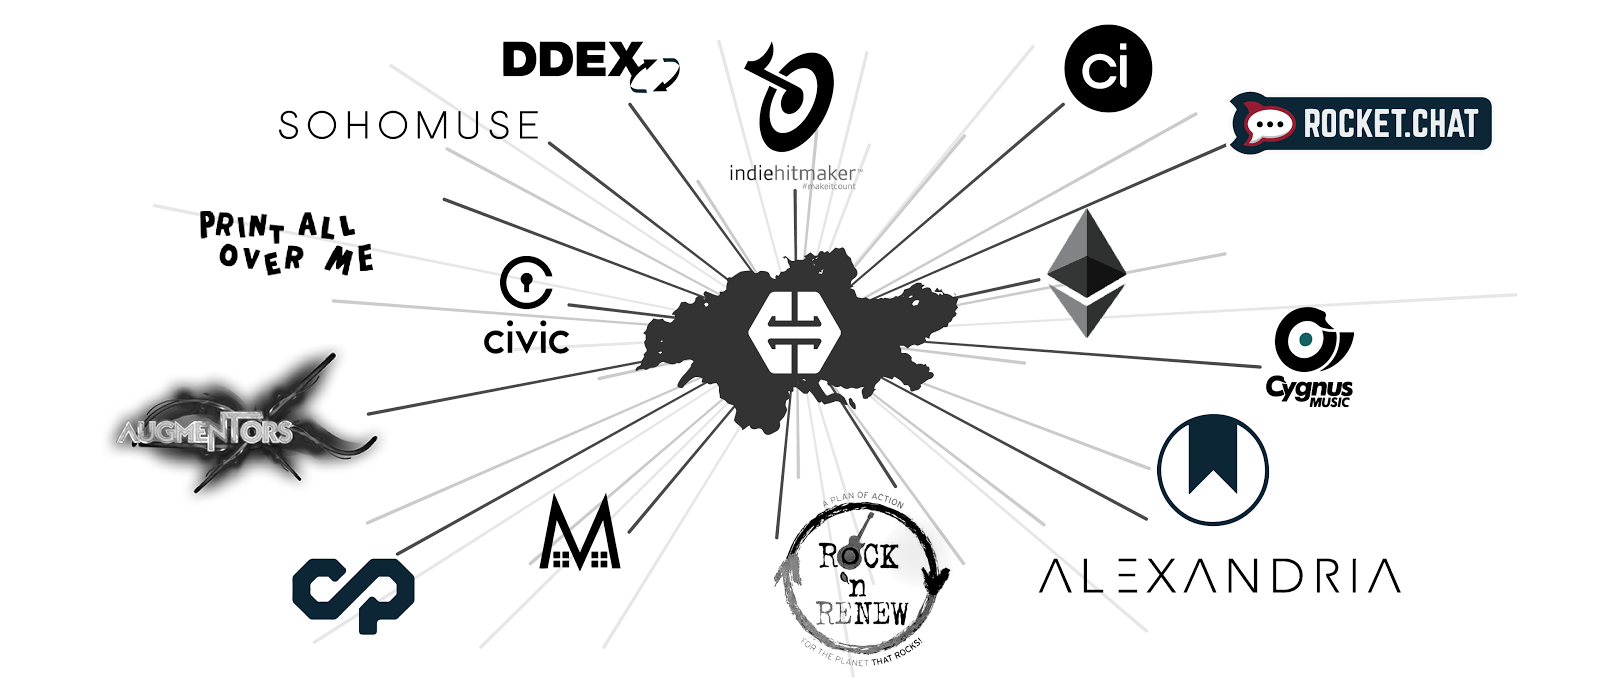
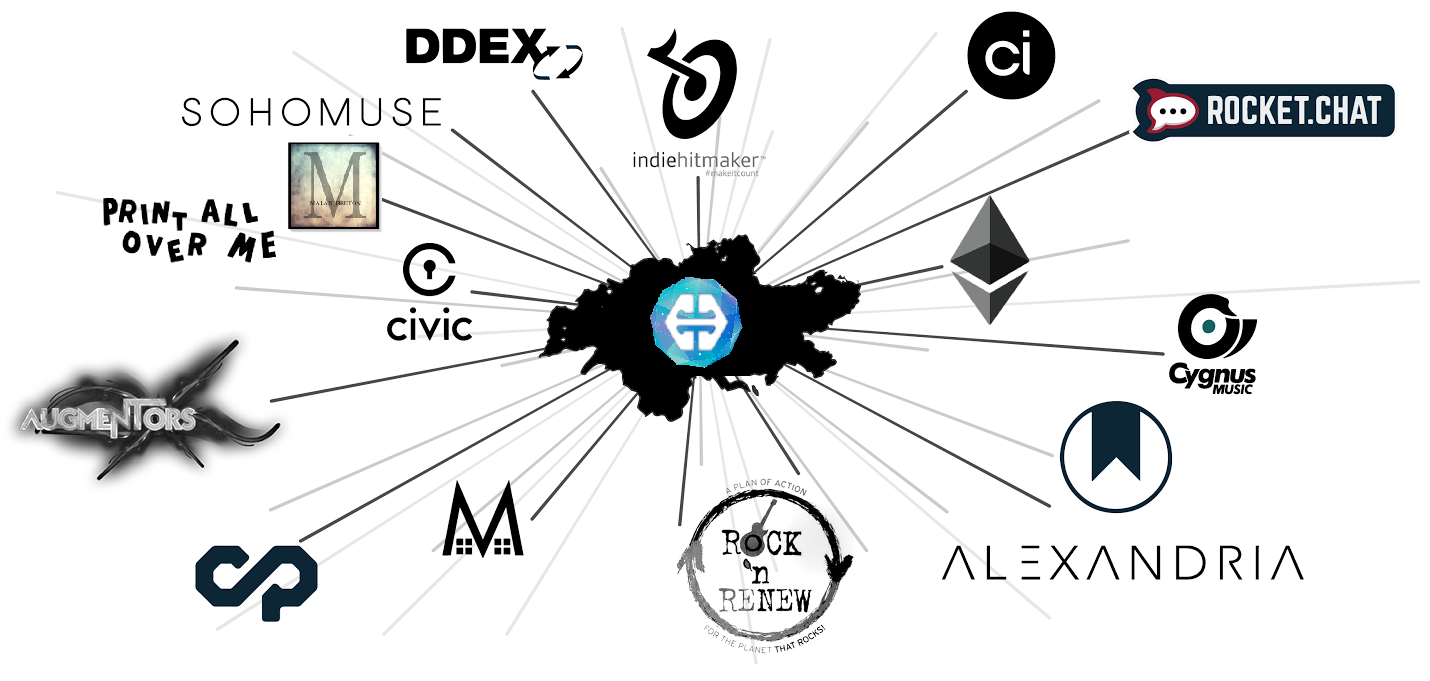
add image and animation to hero

diff --git a/src/components/hero.vue b/src/components/hero.vue
@@ -8,14 +8,13 @@ section.hero
             span Turnkey Token eCommerce
           h2.hero__h2
             span Create, share, and use blockchain tokens without writing a single line of code.
-          a.hero__cta.animated(v-scroll-to="'#about'")
+          a.hero__cta(v-scroll-to="'#about'")
             span Learn More
-        .hero__content__inner__image
   .hero__bg__mask
   .hero__bg(
     ref="bg"
   )
-  <!-- canvas.background -->
+  canvas.background
 </template>
 
 <script>
@@ -100,14 +99,14 @@ export default {
   }
 }
 
-//window.onload = function() {
-//  Particles.init({
-//    selector: '.background',
-//    maxParticles: 20,
-//    color: '#29B6F6',
-//    connectParticles: true
-//  });
-//};
+window.onload = function() {
+  Particles.init({
+    selector: '.background',
+    maxParticles: 40,
+    color: '#29B6F6',
+    connectParticles: true
+  });
+};
 
 </script>
 
@@ -124,6 +123,8 @@ $hero-btn-color: #4170a0
   min-height: 500px
   height: 100vh
   z-index: 0
+  background: #000000;
+
 
 .hero__bg, .hero__bg__mask
   position: absolute
@@ -132,6 +133,8 @@ $hero-btn-color: #4170a0
   top: 0
   left: 0
 
+canvas
+  z-index: 2
 
 .hero__content__container
   position: absolute
@@ -147,7 +150,6 @@ $hero-btn-color: #4170a0
 
 .hero__content
   position: relative
-  text-align: center
   color: #333
   max-width: 800px
   margin: 0 auto
@@ -157,13 +159,8 @@ $hero-btn-color: #4170a0
   &__inner
     max-width: 1100px
     margin: 0 auto
-    &__text, &__image
-      width: 50%
-      display: inline-block
-      vertical-align: top
-      padding: 30px
     &__text
-      text-align: left
+      padding: 30px
 
 .hero__continue
   position: absolute
@@ -195,45 +192,8 @@ $hero-btn-color: #4170a0
   font-size: 36px
   font-weight: 700
   transition: 0.5s
-  color: #00254C
-  .emphasized
-    color: #E6FF0D
-    -webkit-animation: fadein 2s
-    -moz-animation: fadein 2s
-    -ms-animation: fadein 2s
-    -o-animation: fadein 2s
-    animation: fadein 2s
-
-@-webkit-keyframes fadein
-  from
-    opacity: 0
-    margin-left: 50px
-    display: none
-  to
-    opacity: 1
-    margin-left: 0px
-    display: inline-block
-
-@-moz-keyframes fadein
-  from
-    opacity: 0
-    margin-left: 50px
-    display: none
-  to
-    opacity: 1
-    margin-left: 0px
-    display: inline-block
-
-@keyframes fadein
-  from
-    opacity: 0
-    margin-left: 50px
-    display: none
-  to
-    opacity: 1
-    margin-left: 0px
-    display: inline-block
-
+  color: #fff
+  text-shadow: 0px 1px 3px rgba(0,0,0,0.5)
 
 .hero__h2
   overflow: hidden
@@ -244,7 +204,8 @@ $hero-btn-color: #4170a0
   font-size: 22px
   font-weight: 500
   margin-bottom: 50px
-  color: #888
+  color: #f9f9ff
+  text-shadow: 0px 1px 3px rgba(0,0,0,0.5)
 
 .hero__cta
   padding: 15px 50px
@@ -262,12 +223,6 @@ $hero-btn-color: #4170a0
   text-align: center
   width: 100%
   max-width: 300px
-  &.animated
-    -webkit-animation: pulsate 5s linear
-    -moz-animation: pulsate 5s linear
-    animation: pulsate 5s linear
-    -webkit-animation-delay: 3s
-    animation-delay: 3s
   &:hover
     color: #fff
     background-position: right center
@@ -386,22 +341,24 @@ $hero-btn-color: #4170a0
     background-color: lighten($hero-btn-color, 5%)
 
 .hero__bg__mask
-  opacity: 0.85
-  background: linear-gradient(to bottom, #002346 0%, #0063c6 100%)
-  opacity: 0.5
-  background: #fff
+  opacity: 0.6
+  background: #000
   z-index: 5
 
 .hero__bg
   z-index: 1
+  -webkit-background-size: cover
+  -moz-background-size: cover
+  -o-background-size: cover
   background-size: cover
   background-position: center
   overflow: hidden
   -webkit-filter: blur(1px)
-  filter: blur(0px)
-  background-image: none
+  filter: blur(1px)
   position: absolute
-  background: url(https://tokenpockets.com/images/bg2.c37d81d0.png) top right no-repeat
+  background: url(../assets/images/fresco-wireframe-clearbg.png) no-repeat center center fixed
+  -webkit-filter: blur(1px) grayscale(100%); /* Safari 6.0 - 9.0 */
+  filter: blur(1px) grayscale(100%);
   top: 0px
   bottom: 0px
   left: 0px

diff --git a/src/components/nav.vue b/src/components/nav.vue
@@ -91,7 +91,7 @@ export default {
   overflow: hidden
   transition: 1s
   border: 1px solid rgba(205,205,205,0.4)
-  background: rgba(255,255,255,0.8)
+  background: rgba(255,255,255,0.95)
   &.active
     background: #fff
     left: 0px
